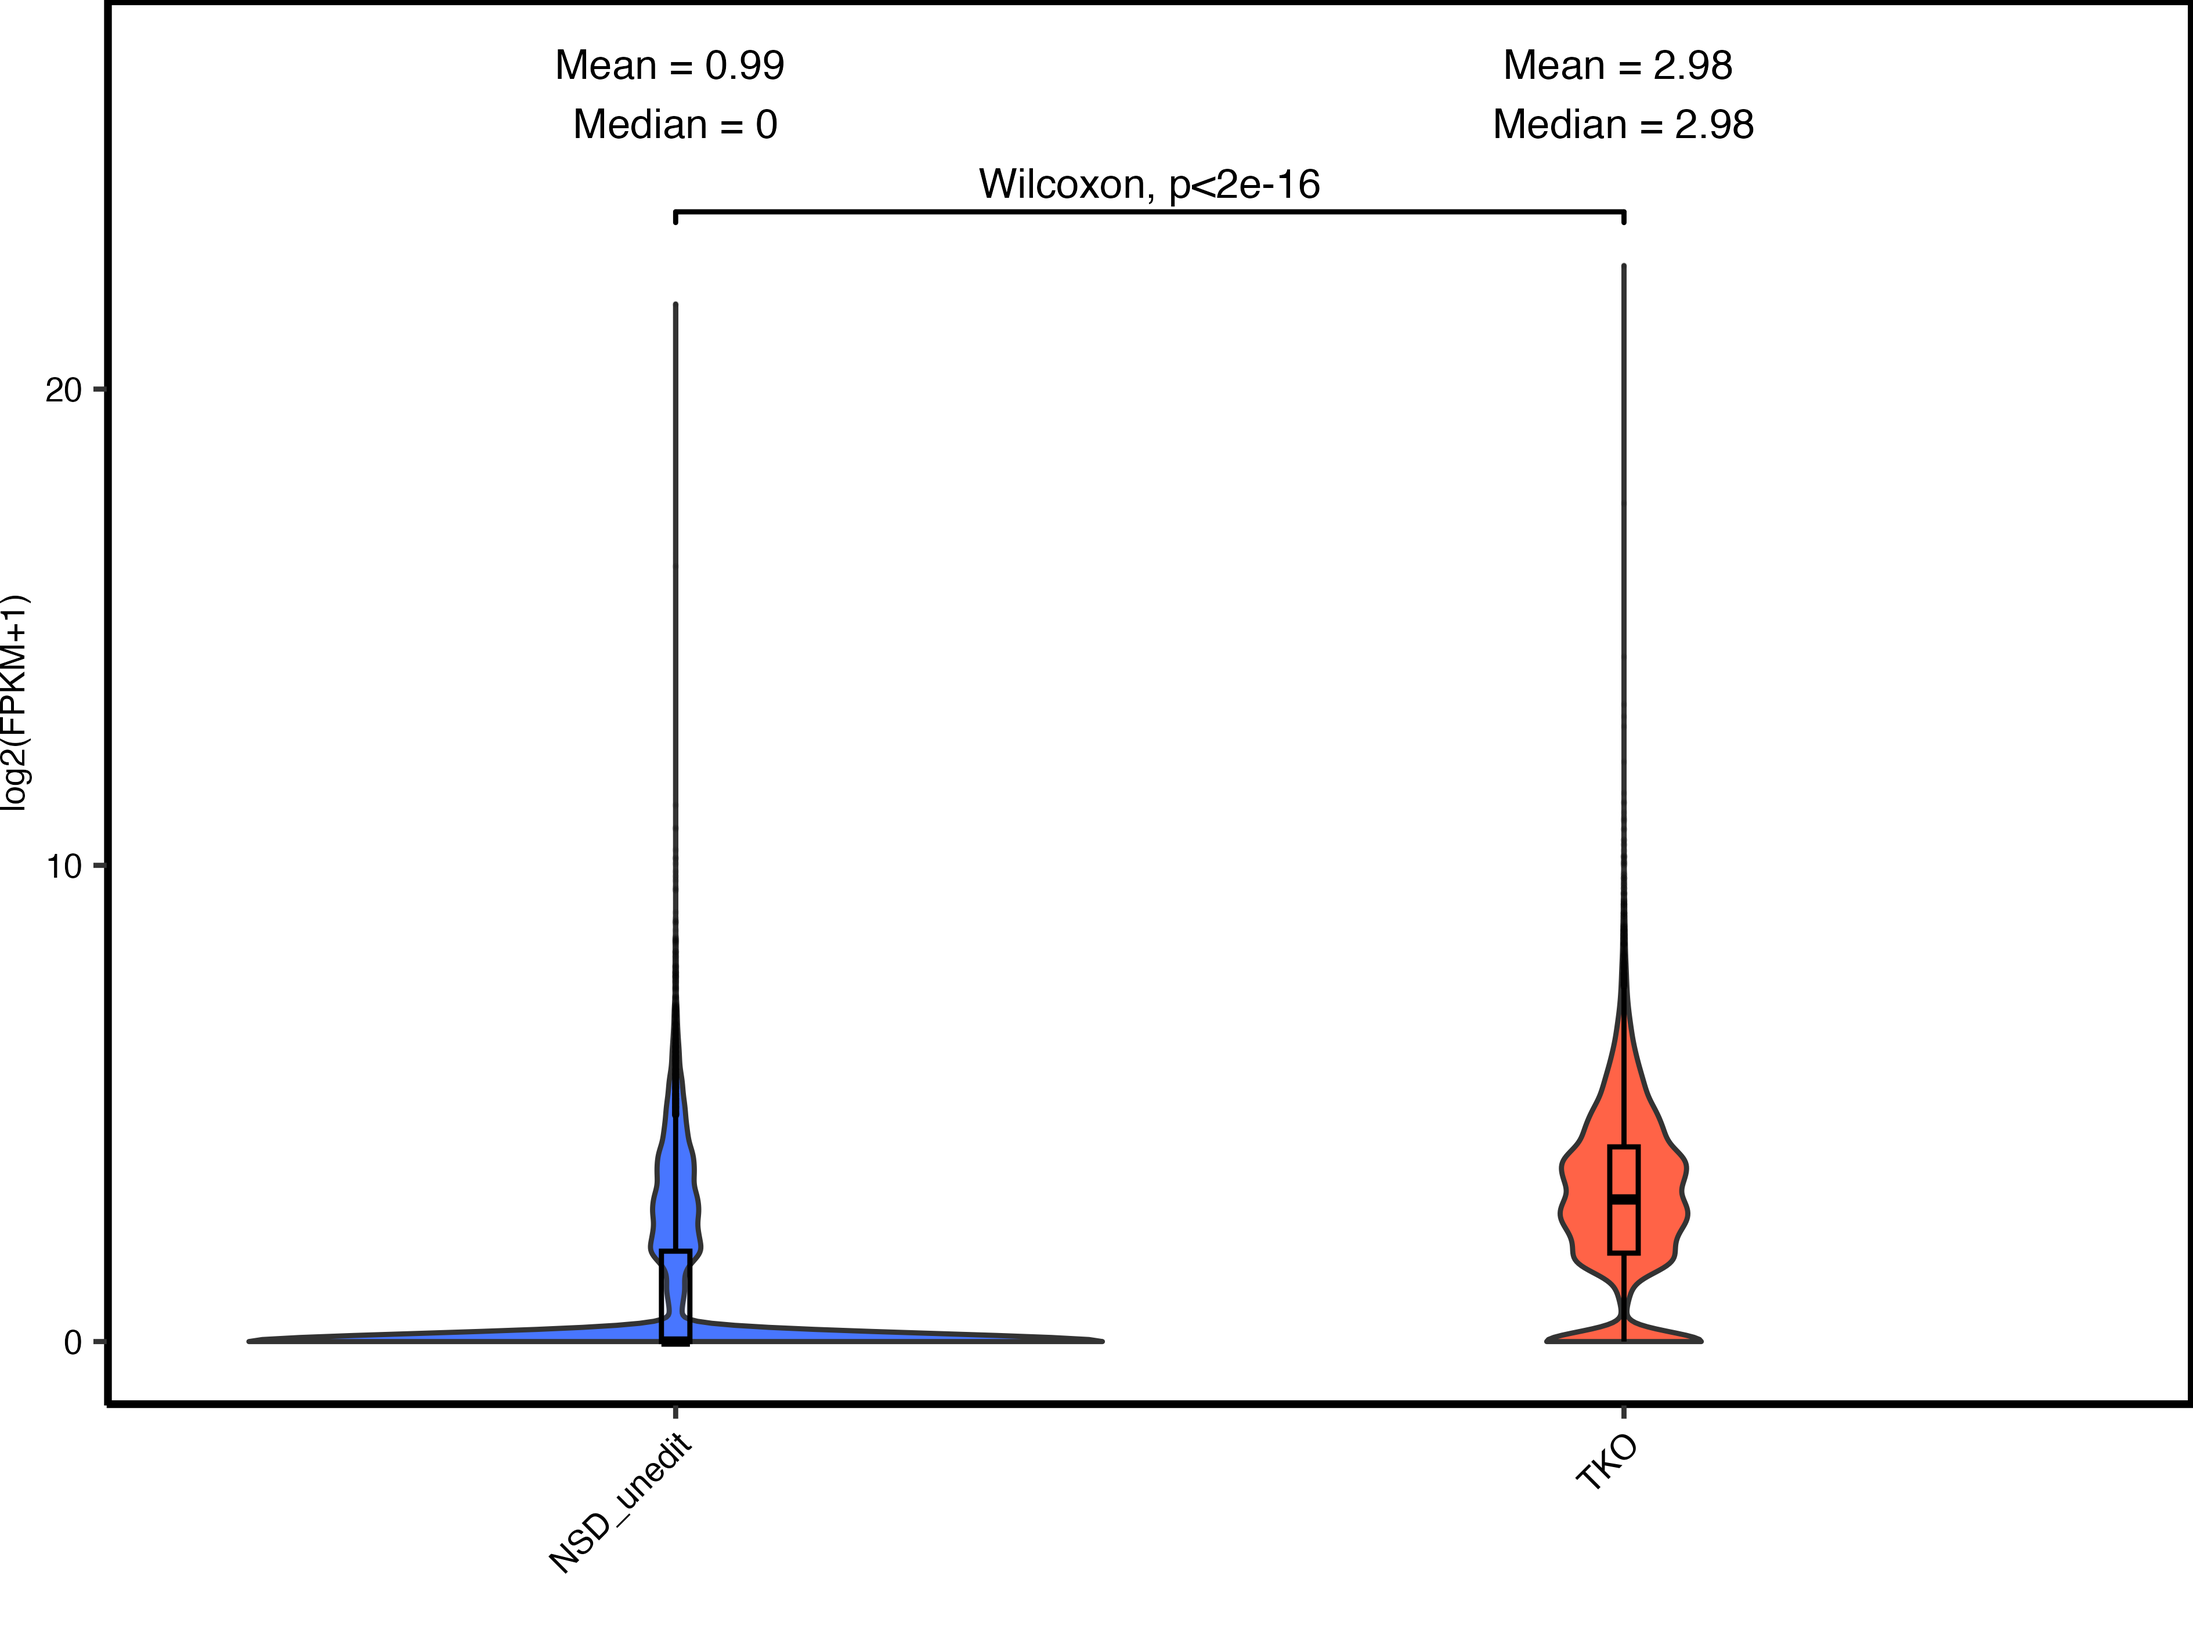
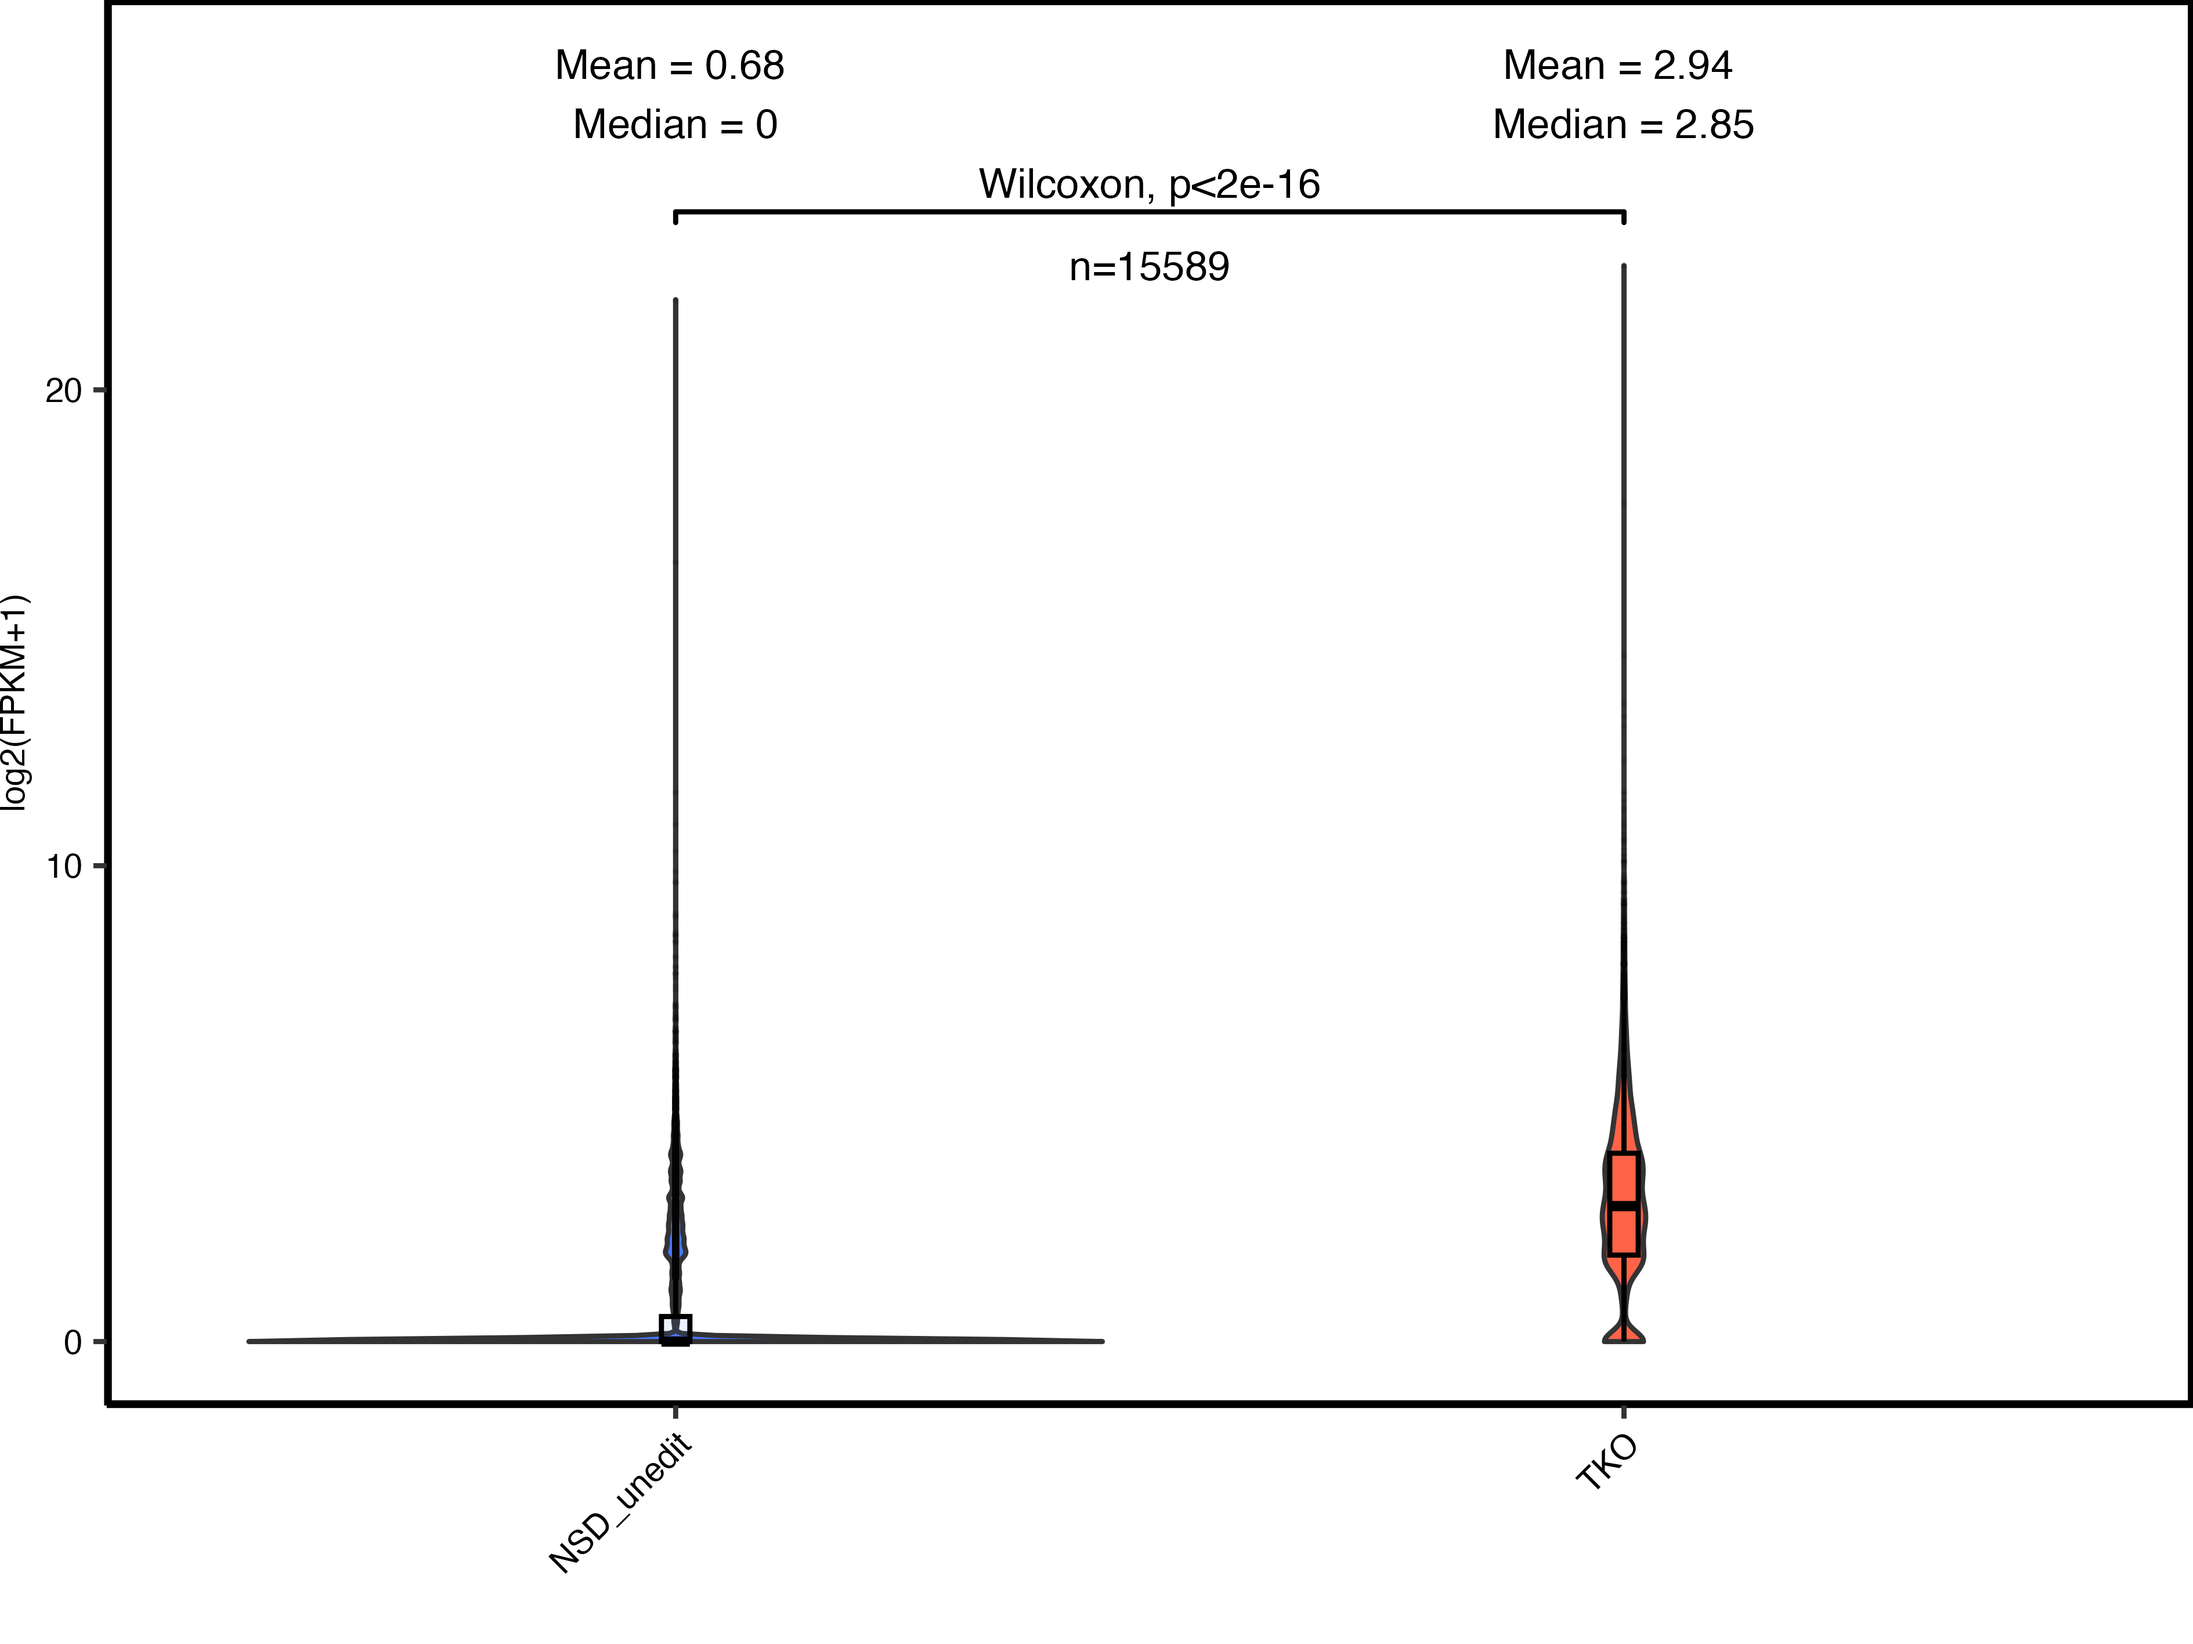
revised TE plots

diff --git a/docs/Analyzing_K9me3_dissolution.html b/docs/Analyzing_K9me3_dissolution.html
@@ -408,7 +408,7 @@ TEs that overlap both cluster A and B domains are excluded from these
 analyses.
 </li>
 <li>
-Only TEs with FPKM &gt; 1 are included.
+Only TEs found at intergenic regions and with FPKM &gt; 1 are included.
 </li>
 <li>
 NSD3-unedit and two unedited clones of NSD1-KO are used for comparison.
@@ -418,7 +418,7 @@ NSD3-unedit and two unedited clones of NSD1-KO are used for comparison.
 <h2 class="tabset">TE within clusB</h2>
 <ul>
 <li>
-There’s an upregulation of about 166 TEs in cluster B regions, where
+There’s an upregulation of about 475 TEs in cluster B regions, where
 there are K9me3 loss in TKO. Additionally, when looking at violin plots,
 there is an overall upregulation of TEs within these cluster B regions
 in the TKO cell line compared to parental.
@@ -441,15 +441,8 @@ expression
 <h2 class="tabset">TE outside clusB</h2>
 <ul>
 <li>
-The volcano plots indicate more downregulated TEs than upregulated in
-the TKO compared to PA, regardless of the log2FC cutoff. This is
-consistent with gain of K9me3 in cluster A regions in TKO compared to
-PA, wherein K9me3 suppresses TE expression.
-</li>
-<li>
-Additionally, the violin plots indicate a slight overall decrease in TE
-expression,consistent with a gain of K9me3 in these regions in the TKO
-cell line.
+The volcano and violin plots indicate an upregulation of TEs in TKO
+compared to NSD-unedited.
 </li>
 </ul>
 <div id="volcano-1" class="section level3 tabset">
